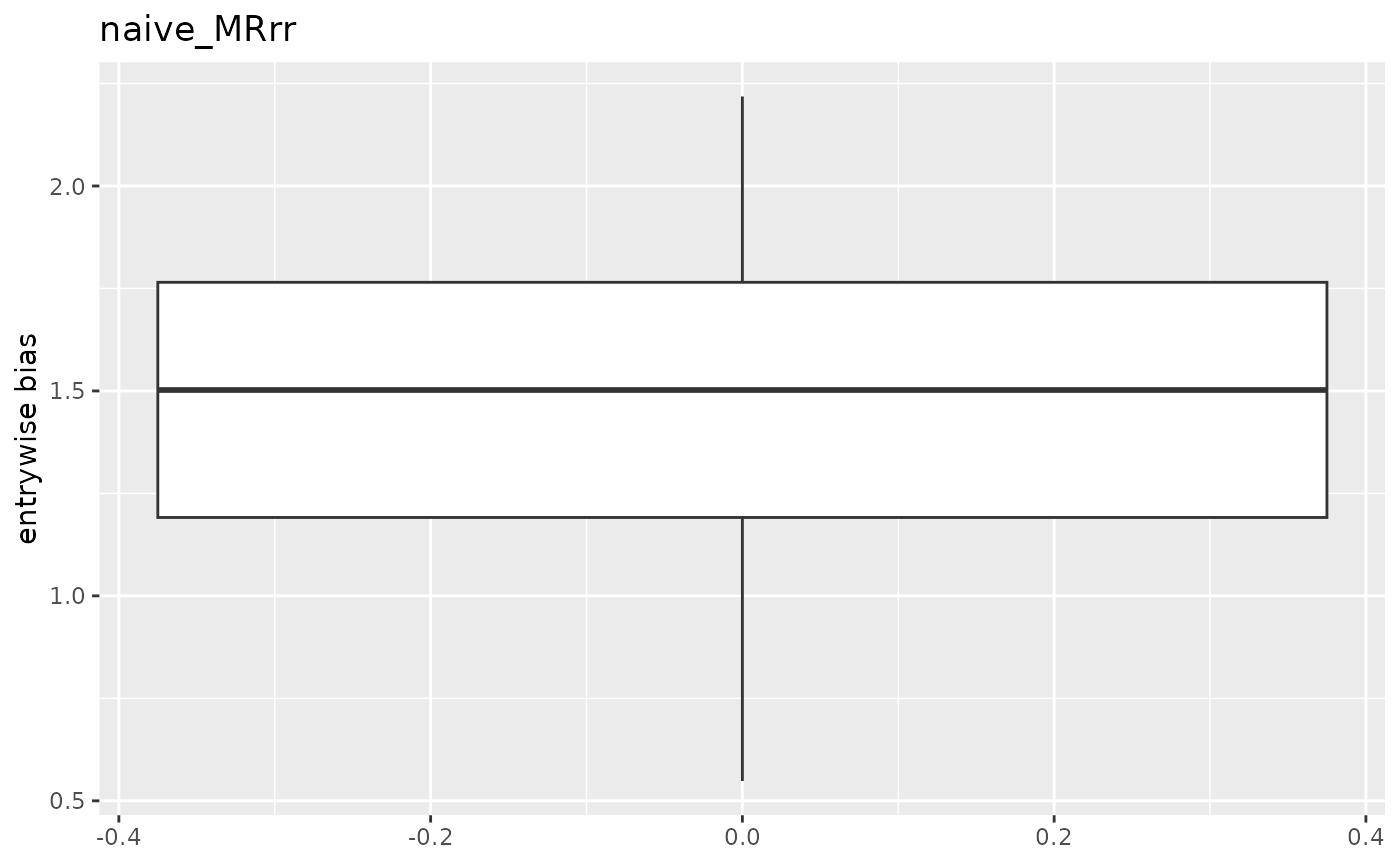
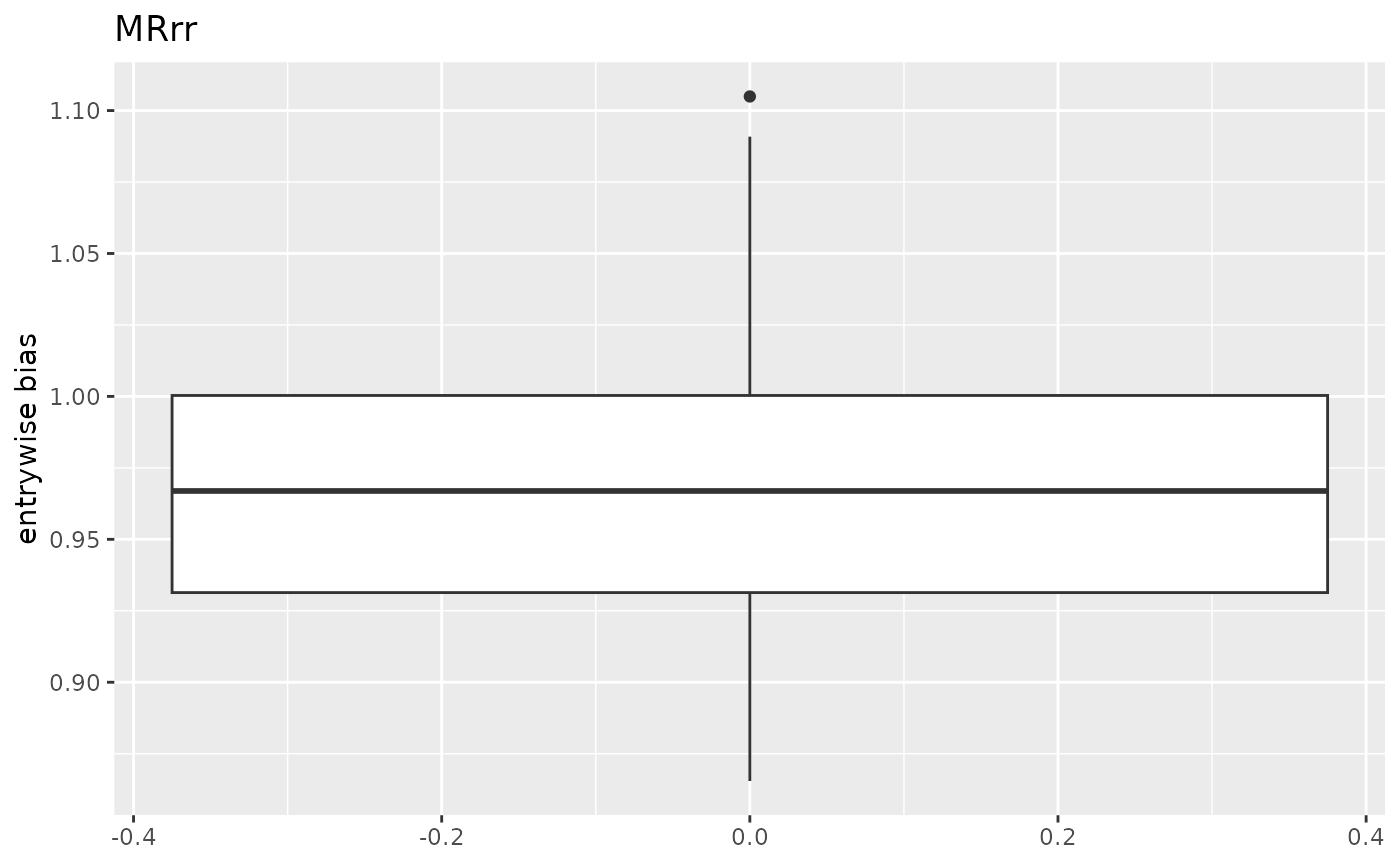
Deploying to gh-pages from @ MatthewYuexiangPeng/MR.rr@7c7531f5d0f5e76c8fb5309f69d75aac3fee07e6 🚀

diff --git a/articles/MR.rr.html b/articles/MR.rr.html
@@ -115,36 +115,18 @@ the boxplot of the entry-wise bias of the causal effect matrix C.</p>
 <span><span class="co">#&gt; [[1]]$`(7, 5)`</span></span></code></pre>
 <p><img src="MR.rr_files/figure-html/unnamed-chunk-2-2.png" width="700"></p>
 <pre><code><span><span class="co">#&gt; </span></span>
-<span><span class="co">#&gt; [[1]]$`(8, 5)`</span></span></code></pre>
-<p><img src="MR.rr_files/figure-html/unnamed-chunk-2-3.png" width="700"></p>
-<pre><code><span><span class="co">#&gt; </span></span>
-<span><span class="co">#&gt; [[1]]$`(1, 5)`</span></span></code></pre>
-<p><img src="MR.rr_files/figure-html/unnamed-chunk-2-4.png" width="700"></p>
-<pre><code><span><span class="co">#&gt; </span></span>
-<span><span class="co">#&gt; [[1]]$`(8, 6)`</span></span></code></pre>
-<p><img src="MR.rr_files/figure-html/unnamed-chunk-2-5.png" width="700"></p>
-<pre><code><span><span class="co">#&gt; </span></span>
 <span><span class="co">#&gt; </span></span>
 <span><span class="co">#&gt; [[2]]</span></span>
 <span><span class="co">#&gt; [[2]]$`(6, 7)`</span></span></code></pre>
-<p><img src="MR.rr_files/figure-html/unnamed-chunk-2-6.png" width="700"></p>
+<p><img src="MR.rr_files/figure-html/unnamed-chunk-2-3.png" width="700"></p>
 <pre><code><span><span class="co">#&gt; </span></span>
 <span><span class="co">#&gt; [[2]]$`(6, 4)`</span></span></code></pre>
-<p><img src="MR.rr_files/figure-html/unnamed-chunk-2-7.png" width="700"></p>
-<pre><code><span><span class="co">#&gt; </span></span>
-<span><span class="co">#&gt; [[2]]$`(9, 4)`</span></span></code></pre>
-<p><img src="MR.rr_files/figure-html/unnamed-chunk-2-8.png" width="700"></p>
-<pre><code><span><span class="co">#&gt; </span></span>
-<span><span class="co">#&gt; [[2]]$`(10, 4)`</span></span></code></pre>
-<p><img src="MR.rr_files/figure-html/unnamed-chunk-2-9.png" width="700"></p>
-<pre><code><span><span class="co">#&gt; </span></span>
-<span><span class="co">#&gt; [[2]]$`(7, 4)`</span></span></code></pre>
-<p><img src="MR.rr_files/figure-html/unnamed-chunk-2-10.png" width="700"></p>
+<p><img src="MR.rr_files/figure-html/unnamed-chunk-2-4.png" width="700"></p>
 <p>From the boxplot, we can see that the MR-rr estimator with
 regularization has a smaller bias than the naive MR-rr estimator. Then,
 we use the heatmap to visualize the bias and standard deviation of each
 entry of the estimator comapring to the causal effect C.</p>
-<div class="sourceCode" id="cb12"><pre class="downlit sourceCode r">
+<div class="sourceCode" id="cb6"><pre class="downlit sourceCode r">
 <code class="sourceCode R"><span><span class="fu"><a href="../reference/plot_heatmap.html">plot_heatmap</a></span><span class="op">(</span><span class="va">bias_naive_MRrr</span>, <span class="va">bias_MRrr_regularized</span>, weight_to_plot <span class="op">=</span> <span class="st">"0.2"</span><span class="op">)</span></span></code></pre></div>
 <p><img src="MR.rr_files/figure-html/unnamed-chunk-3-1.png" width="700"><img src="MR.rr_files/figure-html/unnamed-chunk-3-2.png" width="700"><img src="MR.rr_files/figure-html/unnamed-chunk-3-3.png" width="700"><img src="MR.rr_files/figure-html/unnamed-chunk-3-4.png" width="700"></p>
 <pre><code><span><span class="co">#&gt; $iv_strength</span></span>
@@ -165,11 +147,11 @@ entry of the estimator comapring to the causal effect C.</p>
 <span><span class="co">#&gt; $mean_sd</span></span>
 <span><span class="co">#&gt; [1] 0.1997135</span></span></code></pre>
 <p>We see that when the IV strength is about 1.5, the MR-rr estimator
-with regularization has a smaller bias and standard deviation comparing
-to the naive MR-rr estimator.</p>
+with regularization has a smaller bias and similar standard deviation
+comparing to the naive MR-rr estimator.</p>
 <p>Finally, we test whether the bootstrap 95 percent confidence interval
 covers the true causal effect matrix C with about 95% probability.</p>
-<div class="sourceCode" id="cb14"><pre class="downlit sourceCode r">
+<div class="sourceCode" id="cb8"><pre class="downlit sourceCode r">
 <code class="sourceCode R"><span><span class="fu"><a href="../reference/nonpara_bootstrap.html">nonpara_bootstrap</a></span><span class="op">(</span>me_weight <span class="op">=</span> <span class="fl">0.2</span>, regularized <span class="op">=</span> <span class="cn">TRUE</span>, regularization_rate <span class="op">=</span> <span class="fl">1e-13</span><span class="op">)</span></span>
 <span><span class="co">#&gt; [1] 0.847875</span></span></code></pre></div>
   </main><aside class="col-md-3"><nav id="toc" aria-label="Table of contents"><h2>On this page</h2>
